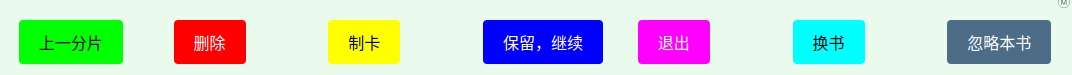
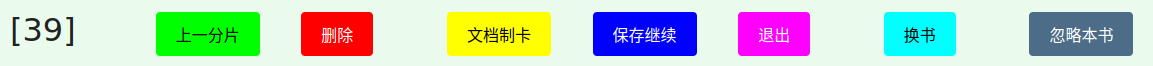
name

diff --git a/src/helper.ts b/src/helper.ts
@@ -149,7 +149,7 @@ function btnSaveDoc(bookID: string, noteID: string, point: number) {
     return `<div>
             ${styleColor("#0000FF", "#FFFFFF")}
             <div>
-                <button onclick="${btnSaveID}()" id="btn${btnSaveID}">保留，继续</button>
+                <button onclick="${btnSaveID}()" id="btn${btnSaveID}">保存继续</button>
             </div>
             <script>
                 function ${btnSaveID}() {
@@ -210,7 +210,7 @@ ${btnPrevious(bookID, noteID, point)}
 <div>
     ${styleColor("#FFFF00", "#000000")}
 <div>
-<button onclick="${btnSaveCardID}()" id="btn${btnSaveCardID}">制卡</button>
+<button onclick="${btnSaveCardID}()" id="btn${btnSaveCardID}">文档制卡</button>
 </div>
 <script>
 function ${btnSaveCardID}() {

diff --git a/src/Progressive.ts b/src/Progressive.ts
@@ -478,11 +478,13 @@ class Progressive {
                 help.appendChild(subDiv, "button", "取消忽略", ["prog-style__button"], () => {
                     this.storage.ignoreBook(bookID, false);
                     dialog.destroy();
+                    this.viewAllProgressiveBooks();
                 });
             } else {
                 help.appendChild(subDiv, "button", "忽略", ["prog-style__button"], () => {
                     this.storage.ignoreBook(bookID, true);
                     dialog.destroy();
+                    this.viewAllProgressiveBooks();
                 });
             }
             help.appendChild(subDiv, "button", "重建索引", ["prog-style__button"], () => {

diff --git a/README_zh_CN.md b/README_zh_CN.md
@@ -47,8 +47,8 @@
 * `[分片序号]`：分片从0开始计数，`[0]`表示一本书的开头。第二个分片为`[1]`。图中是`[39]`
 * `上一分片`：当前段的笔记保留，看上一个分片的内容。
 * `删除`：当前段的笔记不保留，继续看下一个分片。
-* `制卡`：把当前文档制造为闪卡。
-* `保留，继续`：当前段的笔记保留，并且将删除原文和加入原文链接。继续看下一个分片。
+* `文档制卡`：把当前文档制造为闪卡。
+* `保存继续`：当前段的笔记保留，并且将删除原文和加入原文链接。继续看下一个分片。
 * `退出`：当前段的笔记不保留。退出学习。
 * `换书`：当前段的笔记不保留。看其他也加入到`渐进学习`插件的文档。
 * `忽略本书`：不再推送本书，可在`查看所有渐进学习文档`中重新打开。
